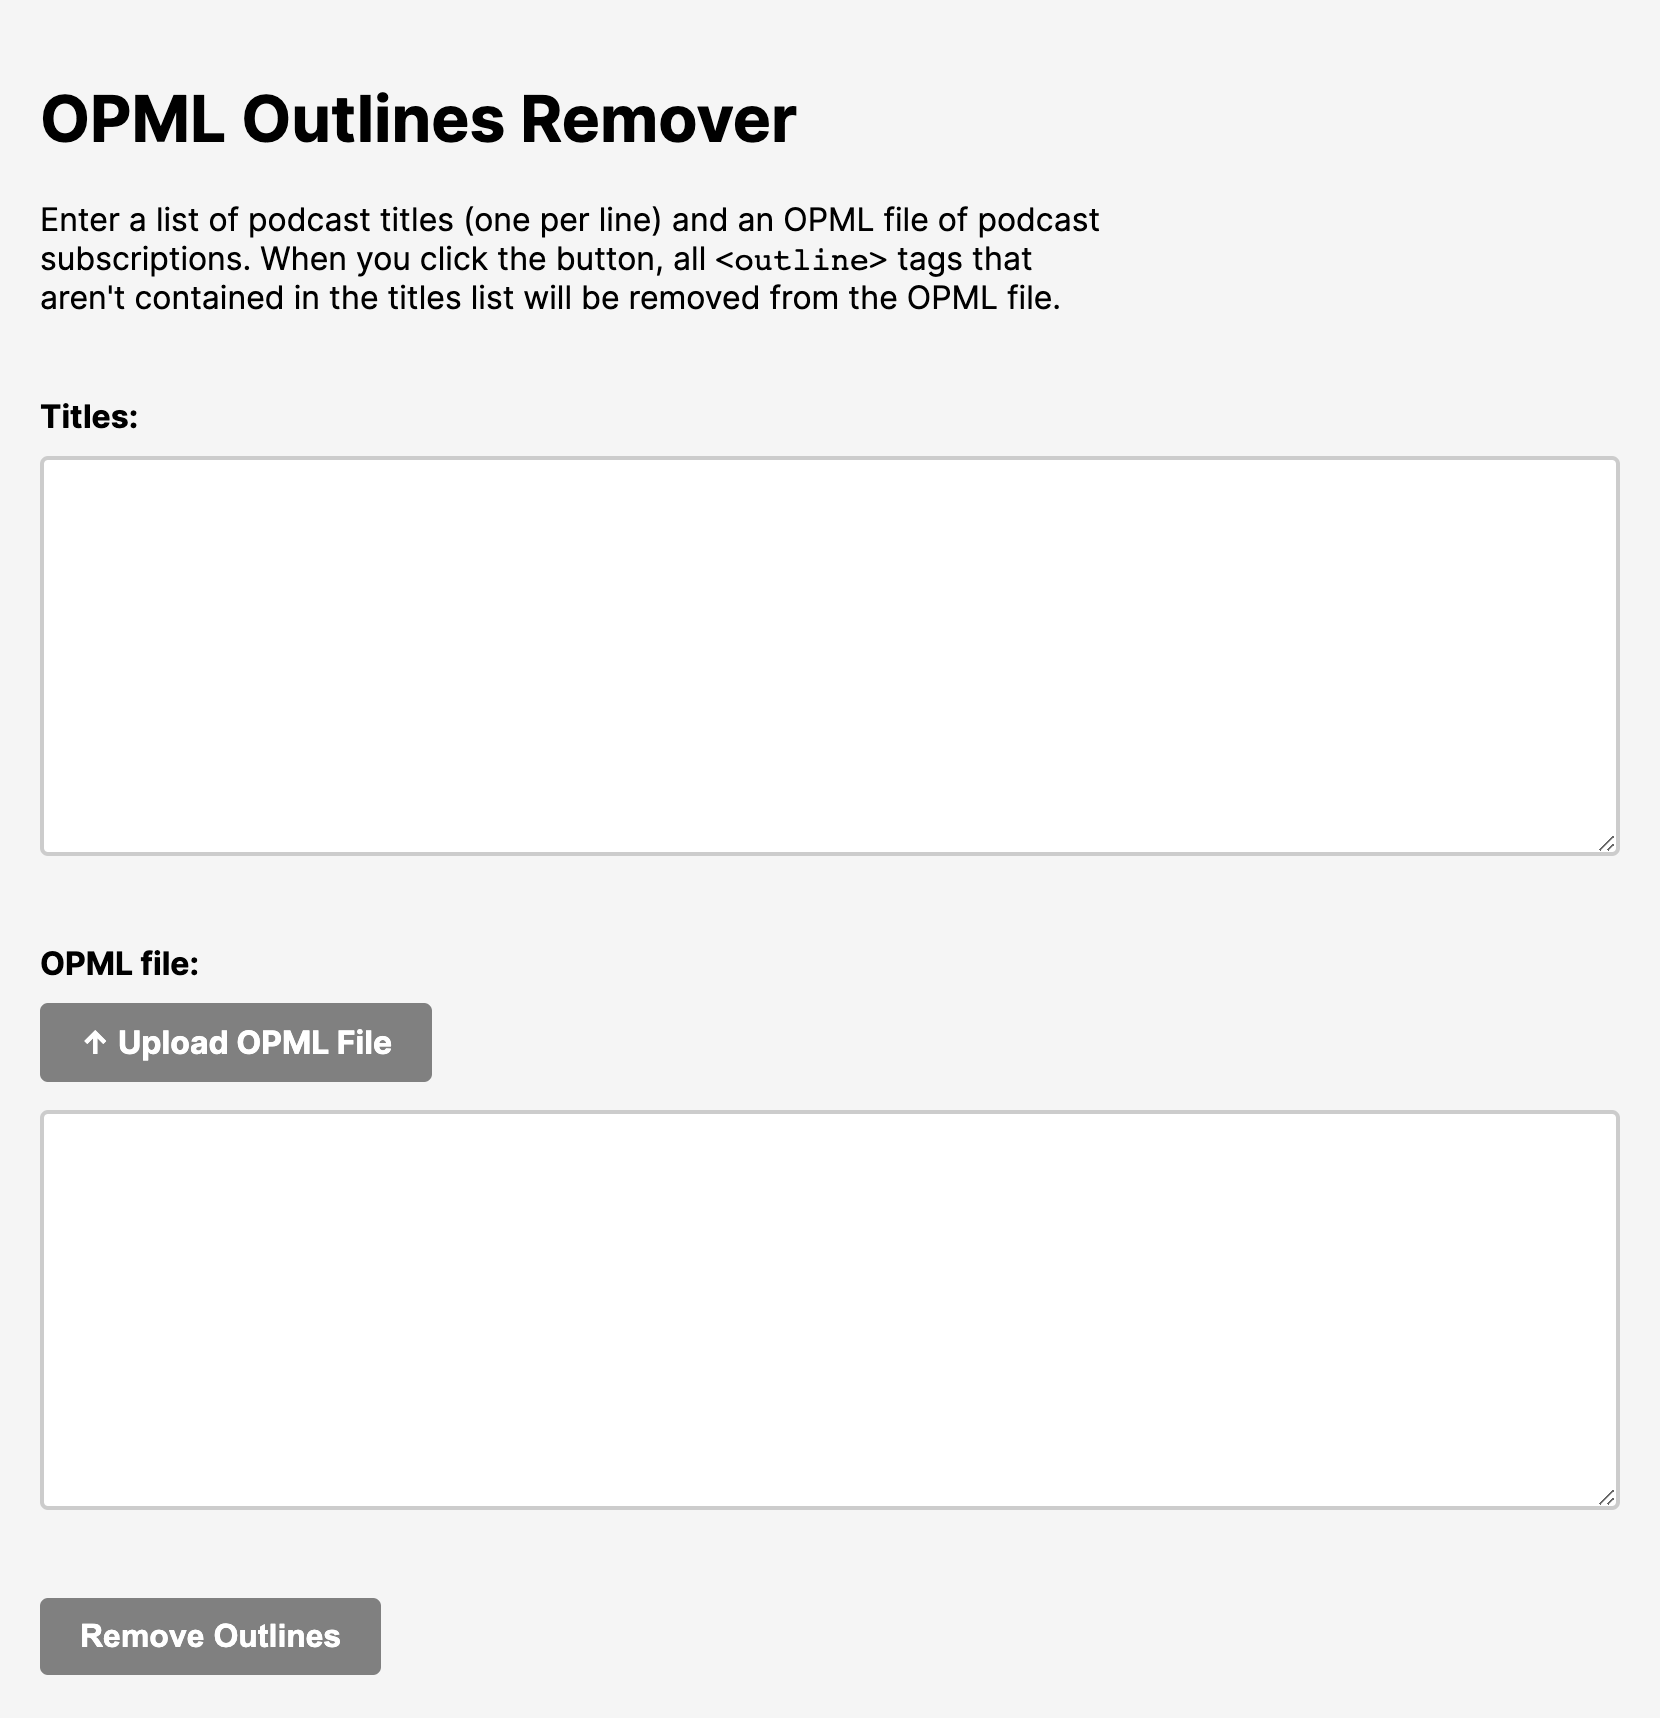
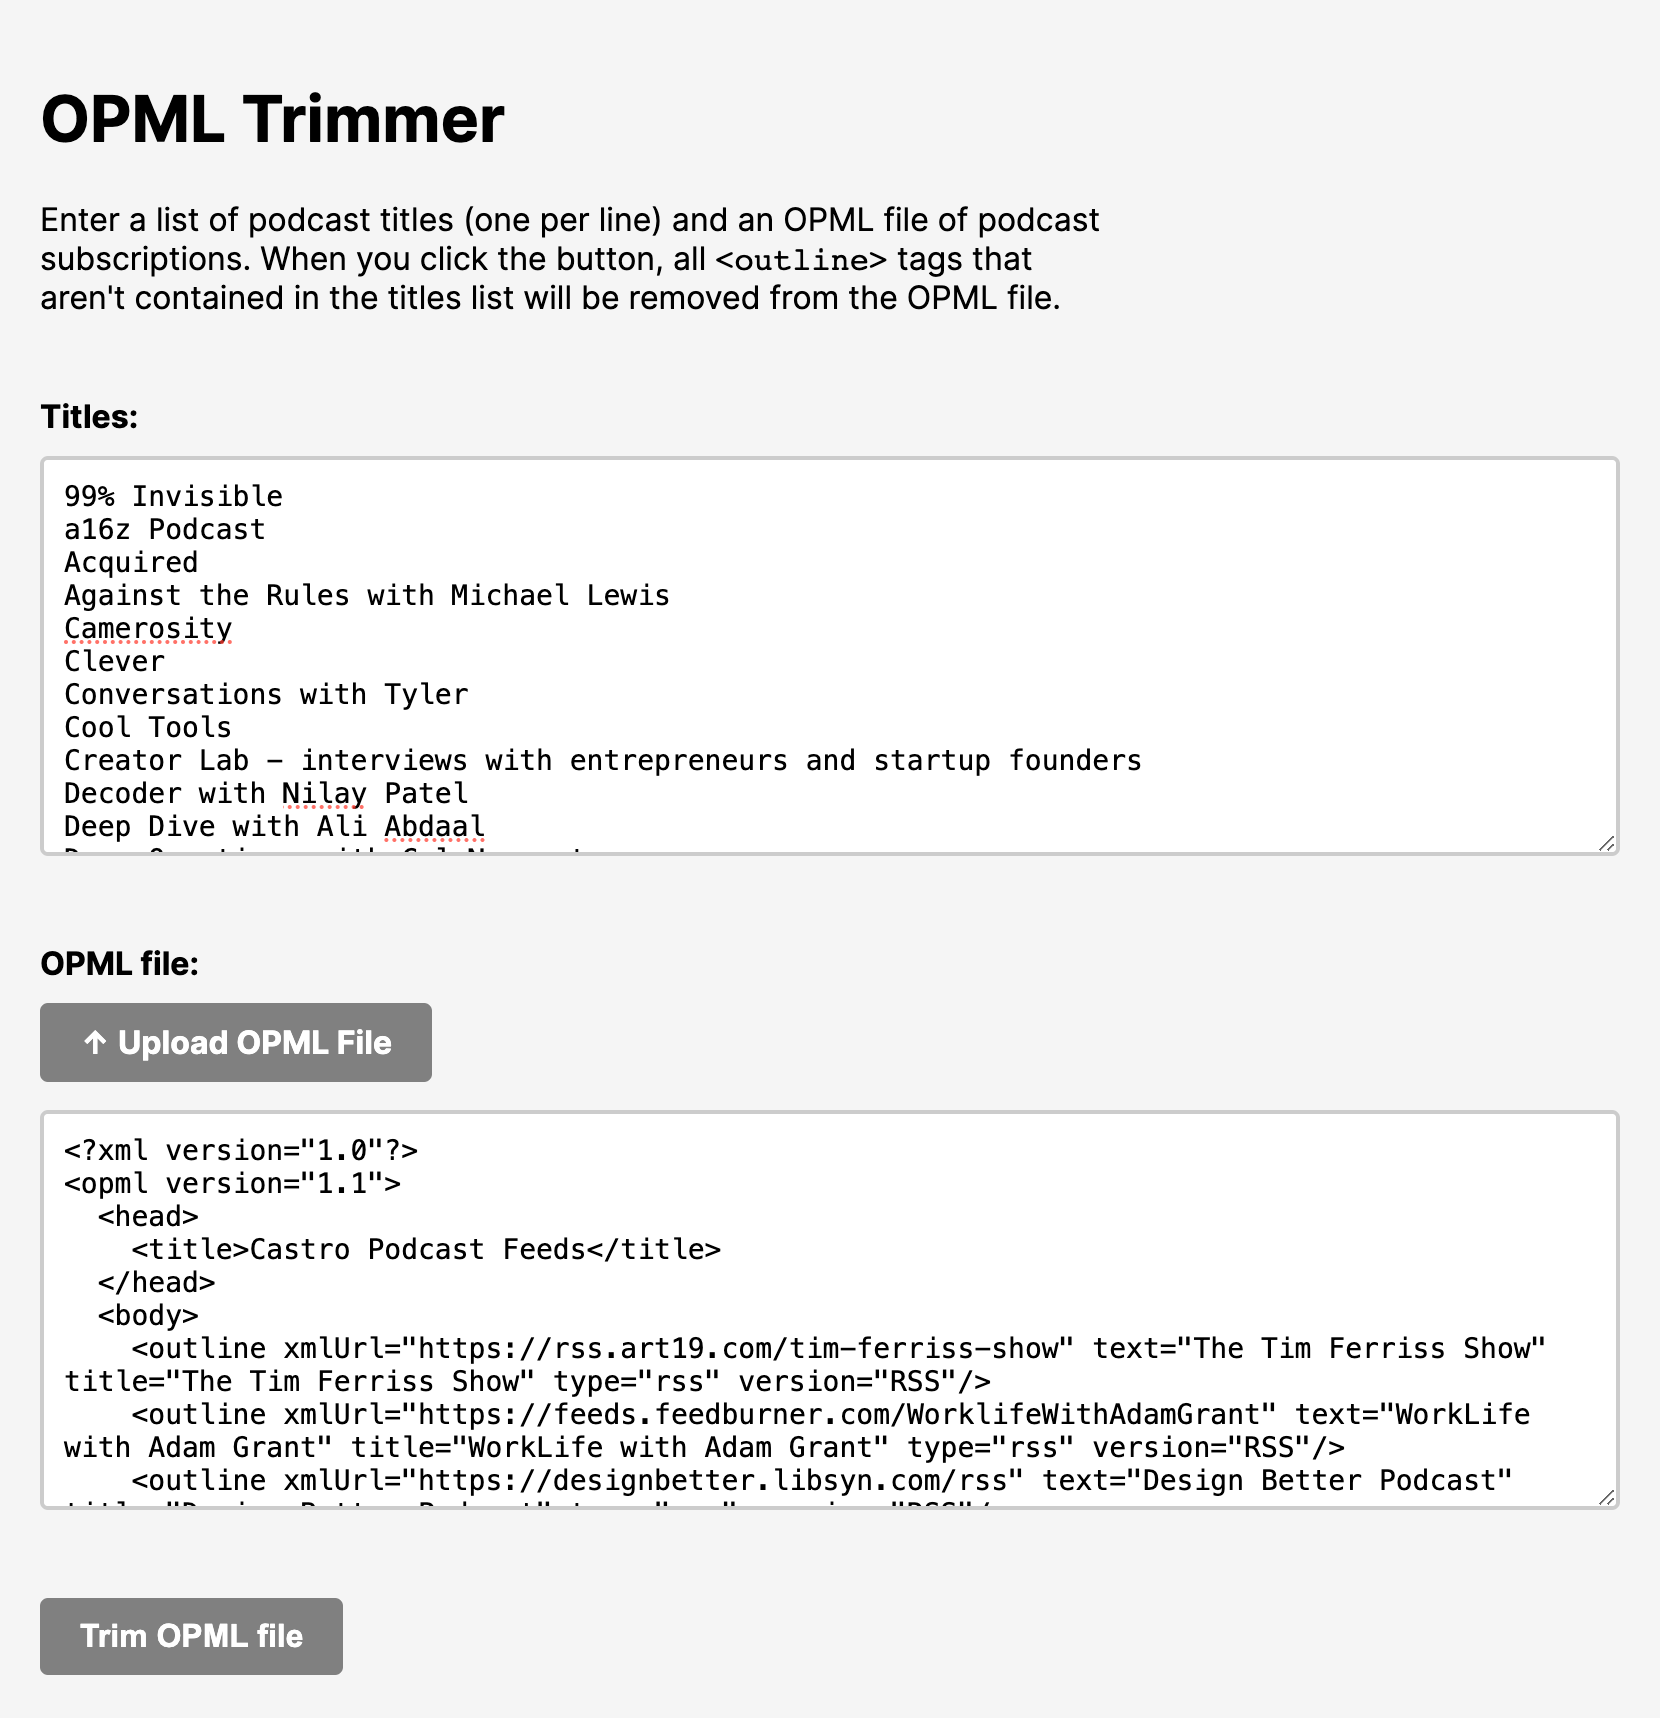
update titles and text

diff --git a/index.html b/index.html
@@ -1,14 +1,14 @@
 <!DOCTYPE html>
 <html>
   <head>
-    <title>OPML Outlines Remover</title>
+    <title>OPML Trimmer</title>
     <meta charset="utf-8" />
     <link rel="stylesheet" href="style.css" />
     <link rel="preconnect" href="https://rsms.me/" />
     <link rel="stylesheet" href="https://rsms.me/inter/inter.css" />
   </head>
   <body>
-    <h1>OPML Outlines Remover</h1>
+    <h1>OPML Trimmer</h1>
     <p>
       Enter a list of podcast titles (one per line) and an OPML file of podcast
       subscriptions. When you click the button, all
@@ -23,15 +23,15 @@
       <label for="opml-upload">OPML file:</label>
       <div class="upload-btn-container">
         <label for="opml-upload" class="upload-btn upload-btn-label"
-          >↑ Upload OPML File</label
+          >↑ Upload OPML file</label
         >
         <input type="file" id="opml-upload" accept="application/xml" />
       </div>
       <textarea id="opml" rows="10" cols="50"></textarea>
     </div>
-    <button id="remove-btn">Remove Outlines</button>
+    <button id="remove-btn">Trim OPML file</button>
     <a href="#" id="download-btn" style="display: none" download
-      >↓ Download OPML File</a
+      >↓ Download OPML file</a
     >
     <script src="script.js"></script>
   </body>
